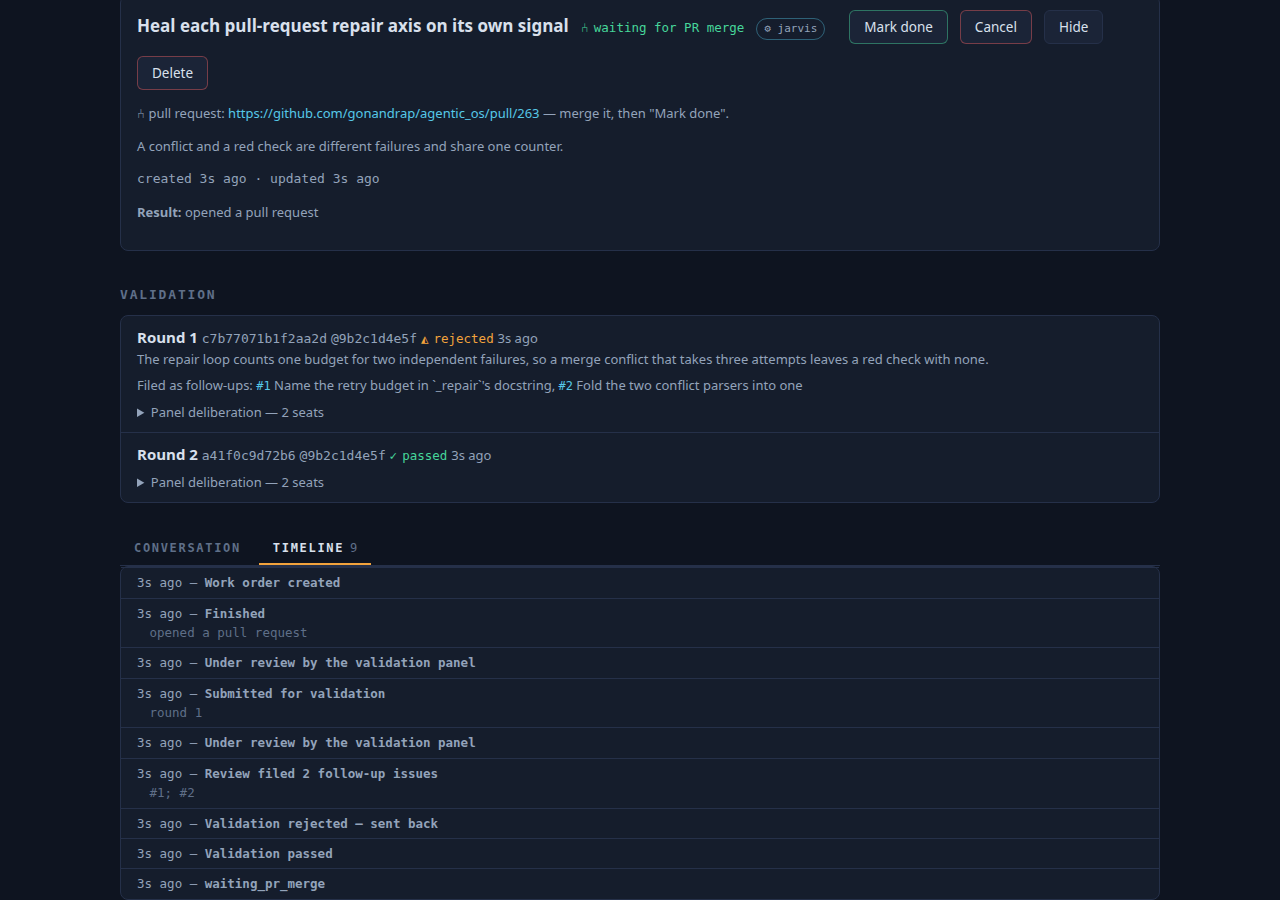
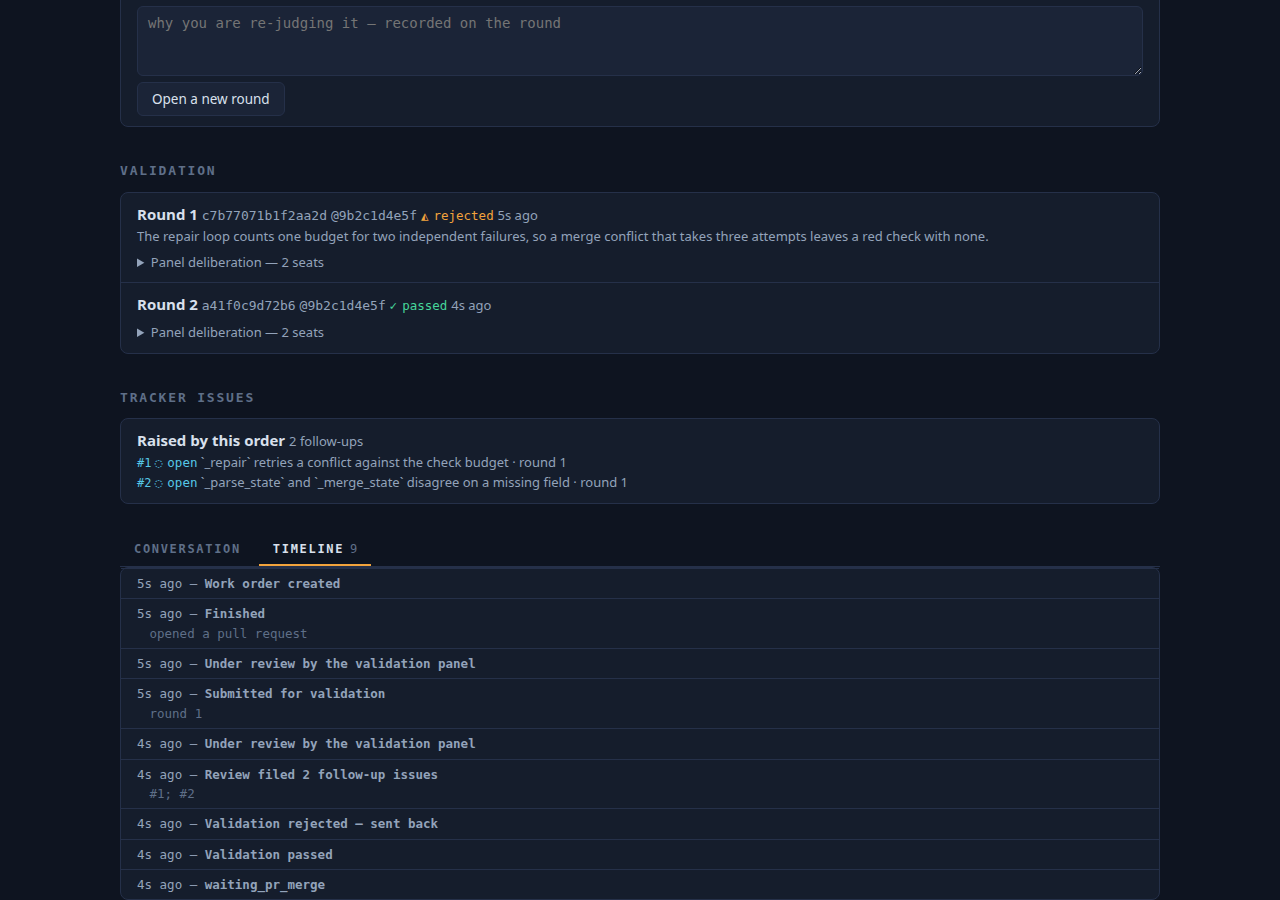
Reseed the follow-up screenshots for the filed and the kept case

diff --git a/scripts/screenshot_follow_ups.py b/scripts/screenshot_follow_ups.py
@@ -41,17 +41,34 @@ PORT = 8803
 PR = "https://github.com/gonandrap/agentic_os/pull/263"
 JUDGED = "9b2c1d4e5f60718293a4b5c6d7e8f90123456789"
 
+#: EVERY ONE ADMISSIBLE — `file` and `failure` are what `ops.follow_up_admissible`
+#: requires before a finding may become a ticket (spec §10.5), and a script seeded with
+#: pre-§10 findings would photograph an empty section.
 FINDINGS = [
     {"seat": "maintainer", "round": 1,
-     "title": "Name the retry budget in `_repair`'s docstring",
-     "detail": "The 3-attempt ceiling is a literal in the loop; a reader has to count "
-               "it. Worth a sentence, not worth a round."},
+     "title": "`_repair` retries a conflict against the check budget",
+     "detail": "The 3-attempt ceiling is one literal shared by both axes.",
+     "file": "src/jarvis/landing.py", "symbol": "_repair",
+     "failure": "a conflict that takes three attempts leaves a red check with none"},
     {"seat": "architect", "round": 1,
-     "title": "Fold the two conflict parsers into one",
-     "detail": "`_parse_state` and `_merge_state` read the same field with different "
-               "fallbacks. They agree today."},
+     "title": "`_parse_state` and `_merge_state` disagree on a missing field",
+     "detail": "They read the same field with different fallbacks. They agree today.",
+     "file": "src/jarvis/landing.py", "symbol": "_parse_state",
+     "failure": "a payload with no `state` key parses as CONFLICTING in one and as "
+                "UNKNOWN in the other"},
 ]
 
+
+#: The finding the second order raises, on a tracker that may be public.
+WITHHELD = [
+    {"seat": "security", "round": 1,
+     "title": "`_refund` credits a budget the gate never debited",
+     "detail": "The refund runs on every denial, including one that never spent an "
+               "attempt.",
+     "file": "src/jarvis/landing.py", "symbol": "_refund",
+     "failure": "a denied gate on attempt 1 leaves the order with four attempts of a "
+                "three-attempt budget"},
+]
 
 ORIGIN = "https://github.com/gonandrap/agentic_os.git"
 ISSUES = "https://github.com/gonandrap/agentic_os/issues"
@@ -148,7 +165,40 @@ def order(store, catalog) -> str:
     return str(wo["id"])
 
 
-def seed() -> tuple[Path, str]:
+def withheld_order(store, catalog) -> str:
+    """One work order whose follow-up may NOT be published, so none was filed.
+
+    `FAKE_GH_PRIVATE=0` is the whole difference: the privacy read answers PUBLIC, the
+    seat's words stay off the tracker, and — since spec §10 — the issue stays off it too.
+    The finding is kept whole on the internal record and the page says so.
+    """
+    from jarvis import ops
+
+    wo = ops.create_work_order(
+        "jarvis_os", "Count a repair attempt only where the worker was allowed one",
+        "A gate that blocked the worker still spent its repair budget.")
+    ops.finish(wo["id"], "opened a pull request", pr_url=PR,
+               evidence="uv run pytest tests/ evals/ — 1041 passed")
+    cfg = catalog.project("jarvis_os").validation
+    rnd = store.latest_validation_round(wo_id=wo["id"])
+    assert rnd is not None
+    store.set_validation_head(rnd["id"], JUDGED)
+    store.record_validation_opinion(
+        rnd["id"], "tester", verdict="pass", model="claude-opus-5", latency_ms=15200,
+        reply="Nothing here blocks; one remark filed rather than argued.")
+    os.environ["FAKE_GH_PRIVATE"] = "0"
+    try:
+        ops.file_validation_follow_ups(store, catalog.project("jarvis_os"), dict(rnd),
+                                       WITHHELD, cfg, wo_id=wo["id"])
+    finally:
+        os.environ.pop("FAKE_GH_PRIVATE", None)
+    store.close_validation_round(rnd["id"], "passed", "")
+    store.add_event(wo["id"], "validation_passed", {"round": 1, "round_id": rnd["id"]})
+    store.set_status(wo["id"], "waiting_pr_merge")
+    return str(wo["id"])
+
+
+def seed() -> tuple[Path, str, str]:
     from jarvis import ops
     from jarvis.catalog import load_catalog
     from jarvis.central_store import CentralStore
@@ -172,9 +222,11 @@ def seed() -> tuple[Path, str]:
     ops.start_os(str(catalog), foreground=True)
 
     pstore = ProjectStore(project)
-    wo_id = order(pstore, load_catalog(catalog))
+    loaded = load_catalog(catalog)
+    wo_id = order(pstore, loaded)
+    kept_id = withheld_order(pstore, loaded)
     pstore.close()
-    return catalog, wo_id
+    return catalog, wo_id, kept_id
 
 
 def serve() -> None:
@@ -185,7 +237,7 @@ def serve() -> None:
     uvicorn.run(create_app(), host="127.0.0.1", port=PORT, log_level="warning")
 
 
-def shoot(wo_id: str) -> None:
+def shoot(wo_id: str, kept_id: str) -> None:
     from playwright.sync_api import sync_playwright
 
     SHOTS.mkdir(parents=True, exist_ok=True)
@@ -193,9 +245,18 @@ def shoot(wo_id: str) -> None:
         browser = p.chromium.launch()
         page = browser.new_page(viewport={"width": 1280, "height": 900})
         page.goto(f"http://127.0.0.1:{PORT}/wo/jarvis_os/{wo_id}")
-        page.locator("h2", has_text="Validation").first.scroll_into_view_if_needed()
+        page.locator("h2", has_text="Tracker issues").first.scroll_into_view_if_needed()
         page.wait_for_timeout(200)
         page.screenshot(path=SHOTS / "validation-follow-ups.png")
+        # THE OTHER HALF OF THE SAME DECISION (spec §10.1): on a repository the OS
+        # cannot establish is private, no issue is opened at all and the finding is on
+        # the internal record. A shot of the filing case alone would not show it.
+        page.goto(f"http://127.0.0.1:{PORT}/wo/jarvis_os/{kept_id}")
+        page.locator("h2", has_text="Tracker issues").first.scroll_into_view_if_needed()
+        page.wait_for_timeout(200)
+        page.screenshot(path=SHOTS / "validation-follow-ups-kept.png")
+        page.goto(f"http://127.0.0.1:{PORT}/wo/jarvis_os/{wo_id}")
+        page.wait_for_timeout(200)
         # The TIMELINE is the other rendered surface: an unlabelled event kind renders
         # as the bare kind beside a JSON blob, which is what the new branch prevents.
         page.get_by_role("tab", name="Timeline").click()
@@ -210,10 +271,10 @@ def main() -> int:
     os.environ["JARVIS_HOME"] = tempfile.mkdtemp()
     os.environ.pop("JARVIS_WO_ID", None)
     sys.path.insert(0, str(REPO / "src"))
-    _catalog, wo_id = seed()
+    _catalog, wo_id, kept_id = seed()
     threading.Thread(target=serve, daemon=True).start()
     time.sleep(2)
-    shoot(wo_id)
+    shoot(wo_id, kept_id)
     print("\n".join(str(q) for q in sorted(SHOTS.glob("validation-follow-ups*.png"))))
     return 0
 
